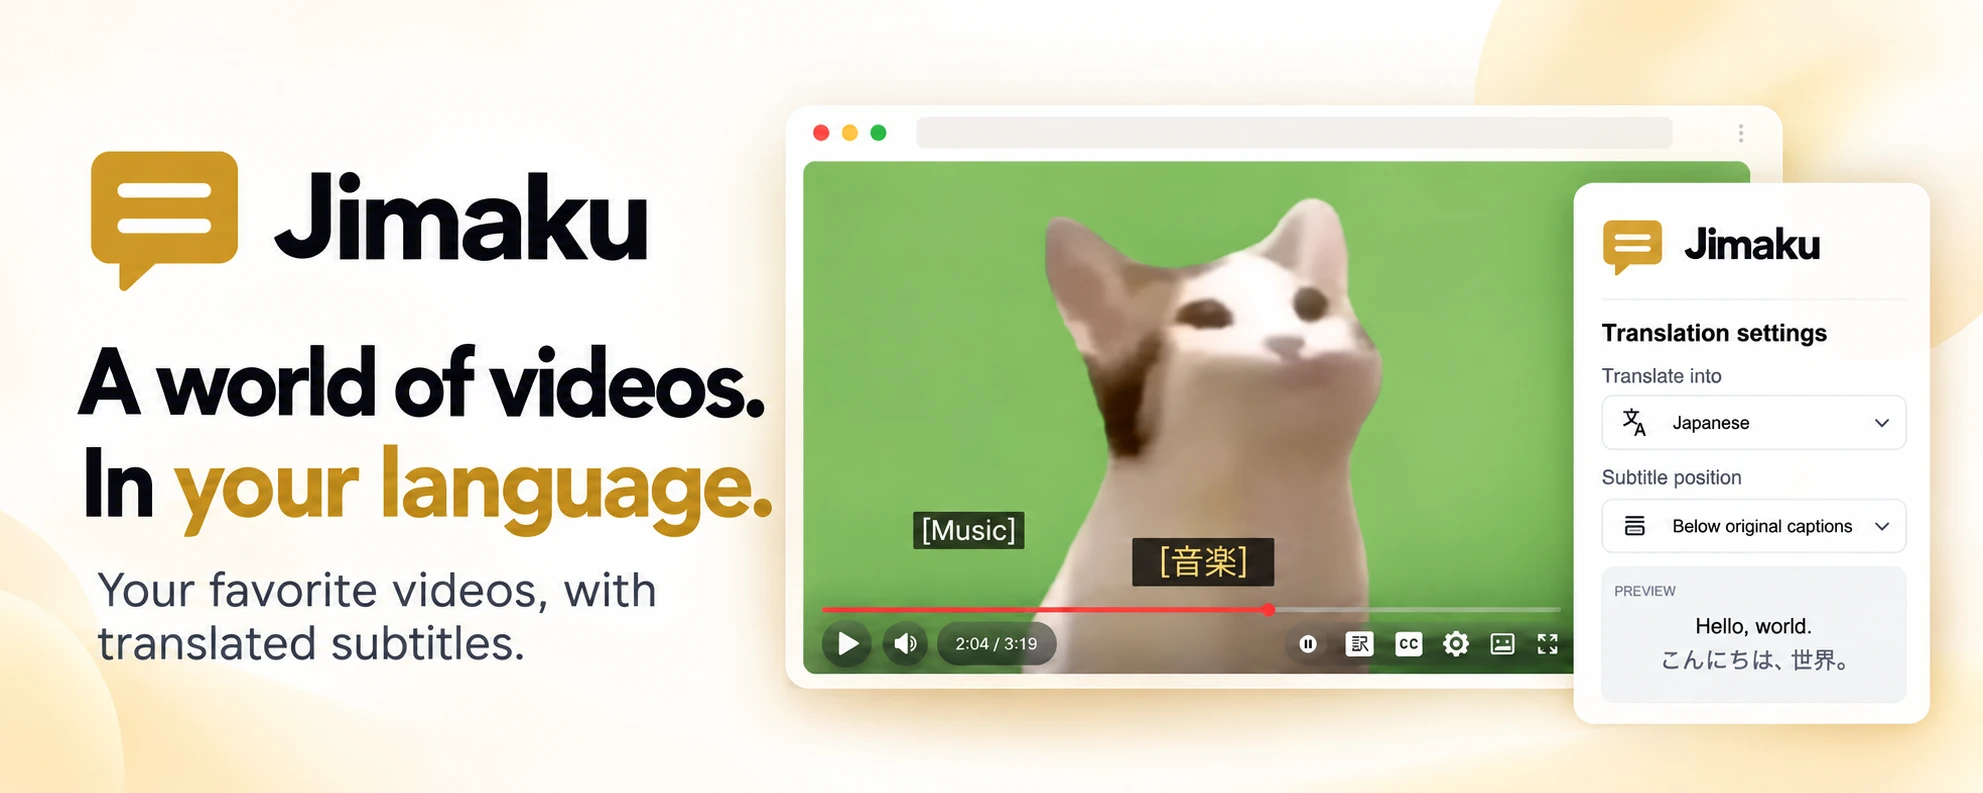
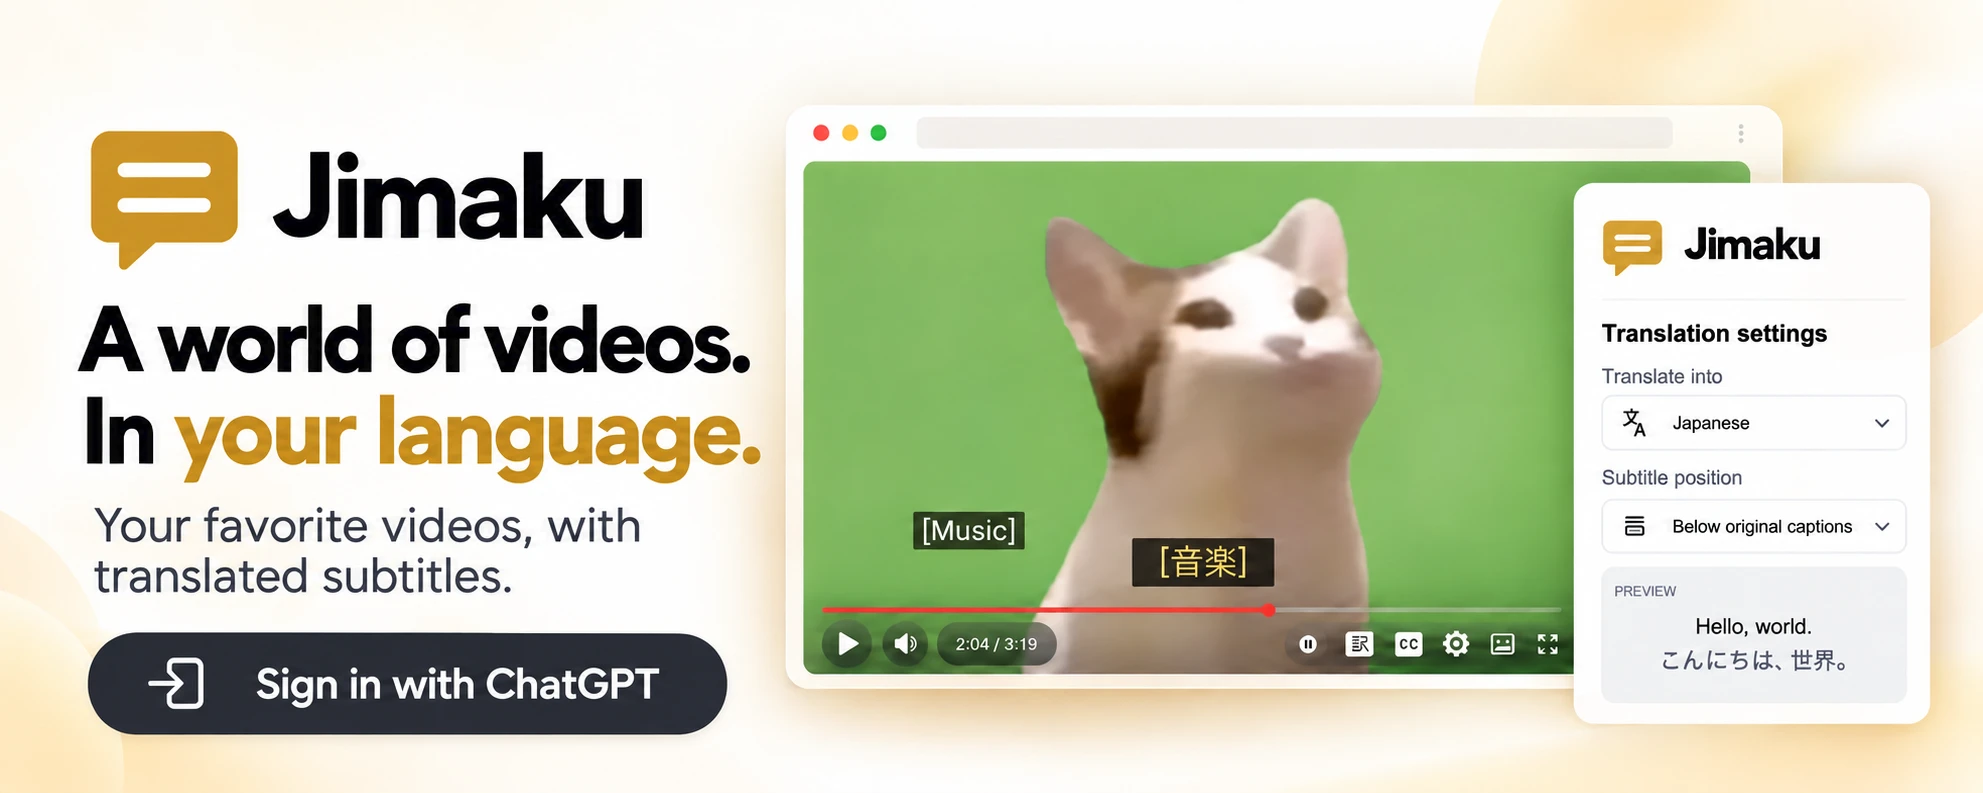
Update the README promo image

diff --git a/README.md b/README.md
@@ -1,4 +1,4 @@
-<p align="center"><img src="assets/promo.webp" alt="Jimaku: A world of videos. In your language. Your favorite videos, with translated subtitles."></p>
+<p align="center"><img src="assets/promo.webp" alt="Jimaku: A world of videos. In your language. Your favorite videos, with translated subtitles. Sign in with ChatGPT."></p>
 
 <h1 align="center">Jimaku</h1>
 
